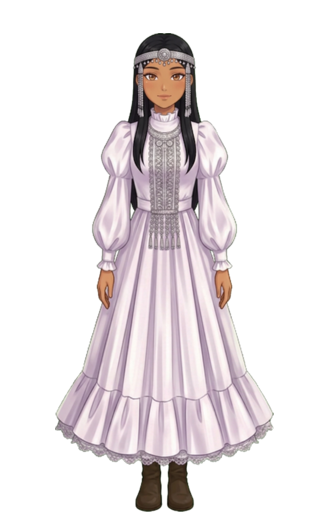
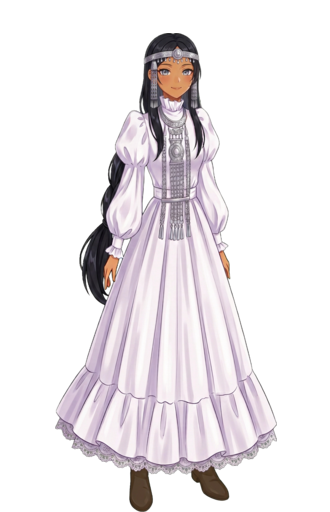
Фронтальный спрайт строго по концепту 2_puff_pleats, героиня смотрит по ходу
Первый вариант фронтального спрайта был сделан не от того референса и
уехал в другой стиль: пропал сребрный нагрудник с цепями, коса,
изменились лицо и силуэт платья. Перегенерирован от
Concepts/sprite_anime_v2/2_puff_pleats.png — сохранены коса через
плечо, повязка с медальоном и бисерными серьгами, круглый нагрудник
с цепями и кистями, высокий воротник, пышные рукава, кружевная
кайма и серо-голубые глаза.

По требованию «пусть смотрит в сторону, куда идёт» из сцены убран
idleFrontSprite, а PlayerController возвращён к исходной логике:
покой — профиль в сторону последнего движения, шаг — цикл ходьбы с
отражением по направлению.

Новые листы ходьбы (Concepts/walk_cycle_v3) в игру не поставил:
у двух из восьми поз модель развела длину тела на 20%, а оставшиеся
четыре почти идентичны. В игре остаётся прежний цикл walk_1..8.

Changed region(s): [[0.1515, 0.0625, 0.8485, 1.0]]

diff --git a/Assets/Scripts/PlayerController.cs b/Assets/Scripts/PlayerController.cs
@@ -16,8 +16,6 @@ public class PlayerController : MonoBehaviour
     public float walkFps = 12f;
     [Tooltip("Спрайт, когда героиня стоит на месте")]
     public Sprite idleSprite;
-    [Tooltip("Спрайт, когда героиня стоит и смотрит прямо в камеру. Если пусто — берётся idleSprite")]
-    public Sprite idleFrontSprite;
 
     [Header("Если упала с края")]
     [Tooltip("Ниже этой высоты героиня возвращается в точку старта")]
@@ -28,9 +26,6 @@ public class PlayerController : MonoBehaviour
     float moveInput;
     float animTimer;
     Vector2 startPosition;
-
-    // Спрайт для позы покоя: сперва пробуем фронтальный (смотрит в камеру).
-    Sprite RestSprite => idleFrontSprite != null ? idleFrontSprite : idleSprite;
 
     void Awake()
     {
@@ -61,15 +56,8 @@ public class PlayerController : MonoBehaviour
         else
         {
             animTimer = 0f;
-
-            // Стоит — разворачиваемся лицом к камере (фронтальный спрайт не отражаем).
-            Sprite rest = RestSprite;
-            if (rest != null)
-            {
-                spriteRenderer.sprite = rest;
-                if (idleFrontSprite != null)
-                    spriteRenderer.flipX = false;
-            }
+            if (idleSprite != null)
+                spriteRenderer.sprite = idleSprite;
         }
 
         if (body.position.y < respawnBelowY)
